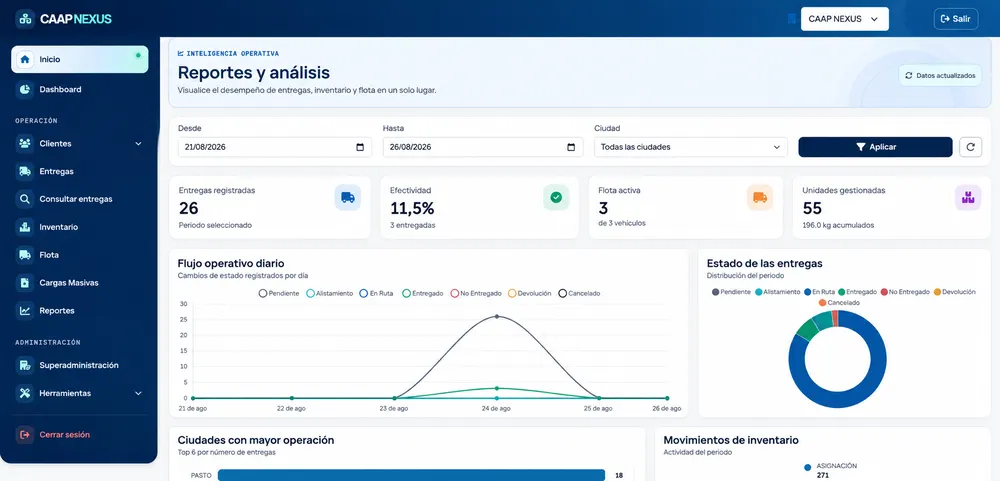
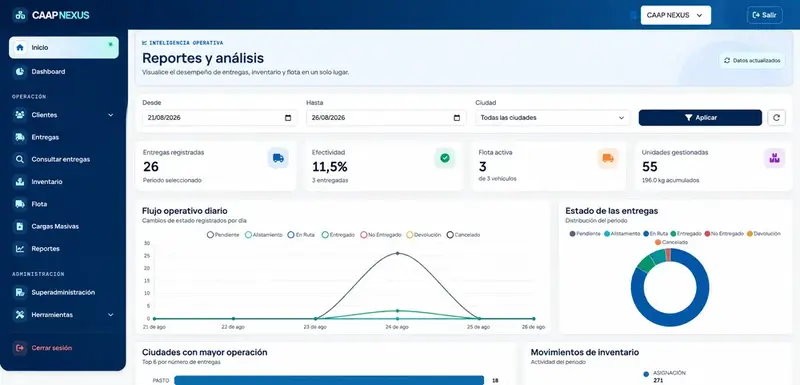
Agrega imagenes responsivas (srcset) para bajar peso en moviles

diff --git a/index.html b/index.html
@@ -111,8 +111,8 @@
 <!-- ===== HEADER ===== -->
 <header class="site-header" id="siteHeader">
   <div class="header-inner">
-    <a href="#inicio" class="brand">
-      <img src="assets/img/Caap_Nexus_negro.webp" alt="CAAP NEXUS" class="brand-mark">
+      <a href="#inicio" class="brand">
+      <img src="assets/img/Caap_Nexus_negro-icon.webp" alt="CAAP NEXUS" class="brand-mark">
       <span class="brand-name">CAAP<span class="accent">NEXUS</span></span>
     </a>
 
@@ -253,16 +253,15 @@
 
     <div class="erp-shots">
       <div class="erp-shot shot-reportes reveal-from-left" data-reveal>
-        <img src="assets/img/erp/reportes.webp" alt="Reportes y análisis — CAAP NEXUS ERP" loading="lazy" decoding="async">
+      <img src="assets/img/erp/reportes.webp" srcset="assets/img/erp/reportes-sm.webp 500w, assets/img/erp/reportes.webp 800w" sizes="(max-width: 560px) 370px, 420px" alt="Reportes y análisis — CAAP NEXUS ERP" loading="lazy" decoding="async">
       </div>
       <div class="erp-shot shot-login reveal-from-right delay-1" data-reveal>
-        <img src="assets/img/erp/login.webp" alt="Inicio de sesión — CAAP NEXUS ERP" loading="lazy" decoding="async">
+      <img src="assets/img/erp/login.webp" srcset="assets/img/erp/login-sm.webp 500w, assets/img/erp/login.webp 800w" sizes="(max-width: 560px) 370px, 420px" alt="Inicio de sesión — CAAP NEXUS ERP" loading="lazy" decoding="async">
       </div>
       <div class="erp-shot shot-inventario reveal-from-bottom delay-2" data-reveal>
-      <img src="assets/img/erp/inventario.webp" alt="Inventario de productos — CAAP NEXUS ERP" loading="lazy" decoding="async">
+      <img src="assets/img/erp/inventario.webp" srcset="assets/img/erp/inventario-sm.webp 500w, assets/img/erp/inventario.webp 800w" sizes="(max-width: 560px) 370px, 420px" alt="Inventario de productos — CAAP NEXUS ERP" loading="lazy" decoding="async">
       </div>
-      <div class="erp-shot shot-entregas reveal-from-top delay-3" data-reveal>
-      <img src="assets/img/erp/entregas.webp" alt="Gestión de entregas — CAAP NEXUS ERP" loading="lazy" decoding="async">
+      <img src="assets/img/erp/entregas.webp" srcset="assets/img/erp/entregas-sm.webp 500w, assets/img/erp/entregas.webp 800w" sizes="(max-width: 560px) 370px, 420px" alt="Gestión de entregas — CAAP NEXUS ERP" loading="lazy" decoding="async">
       </div>
     </div>
   </div>
